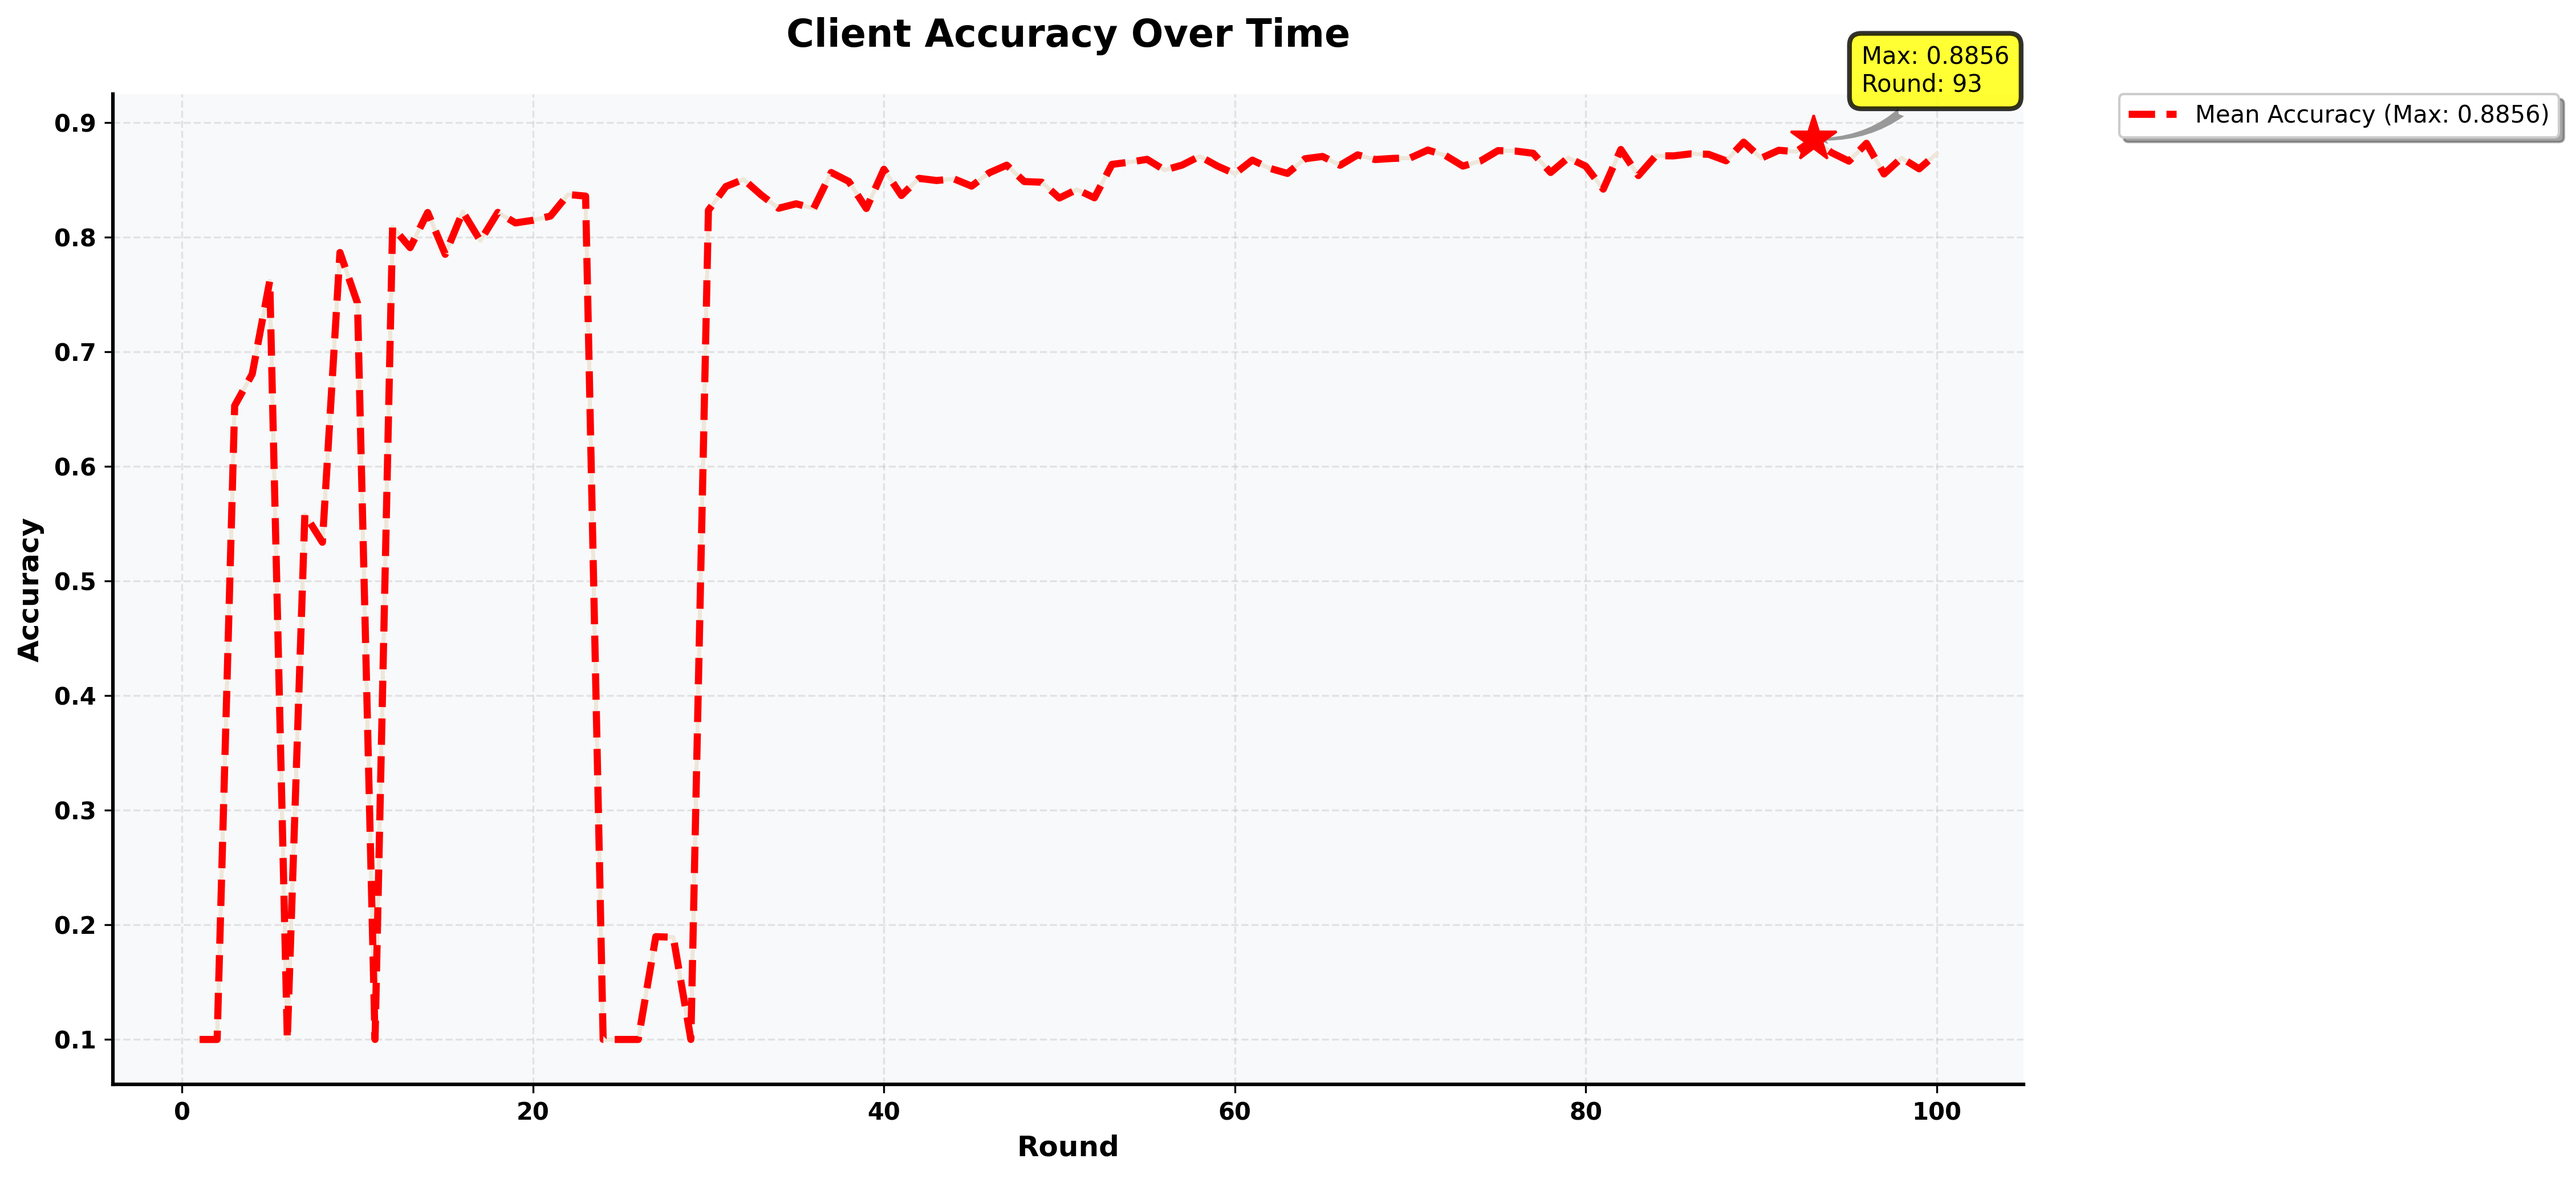
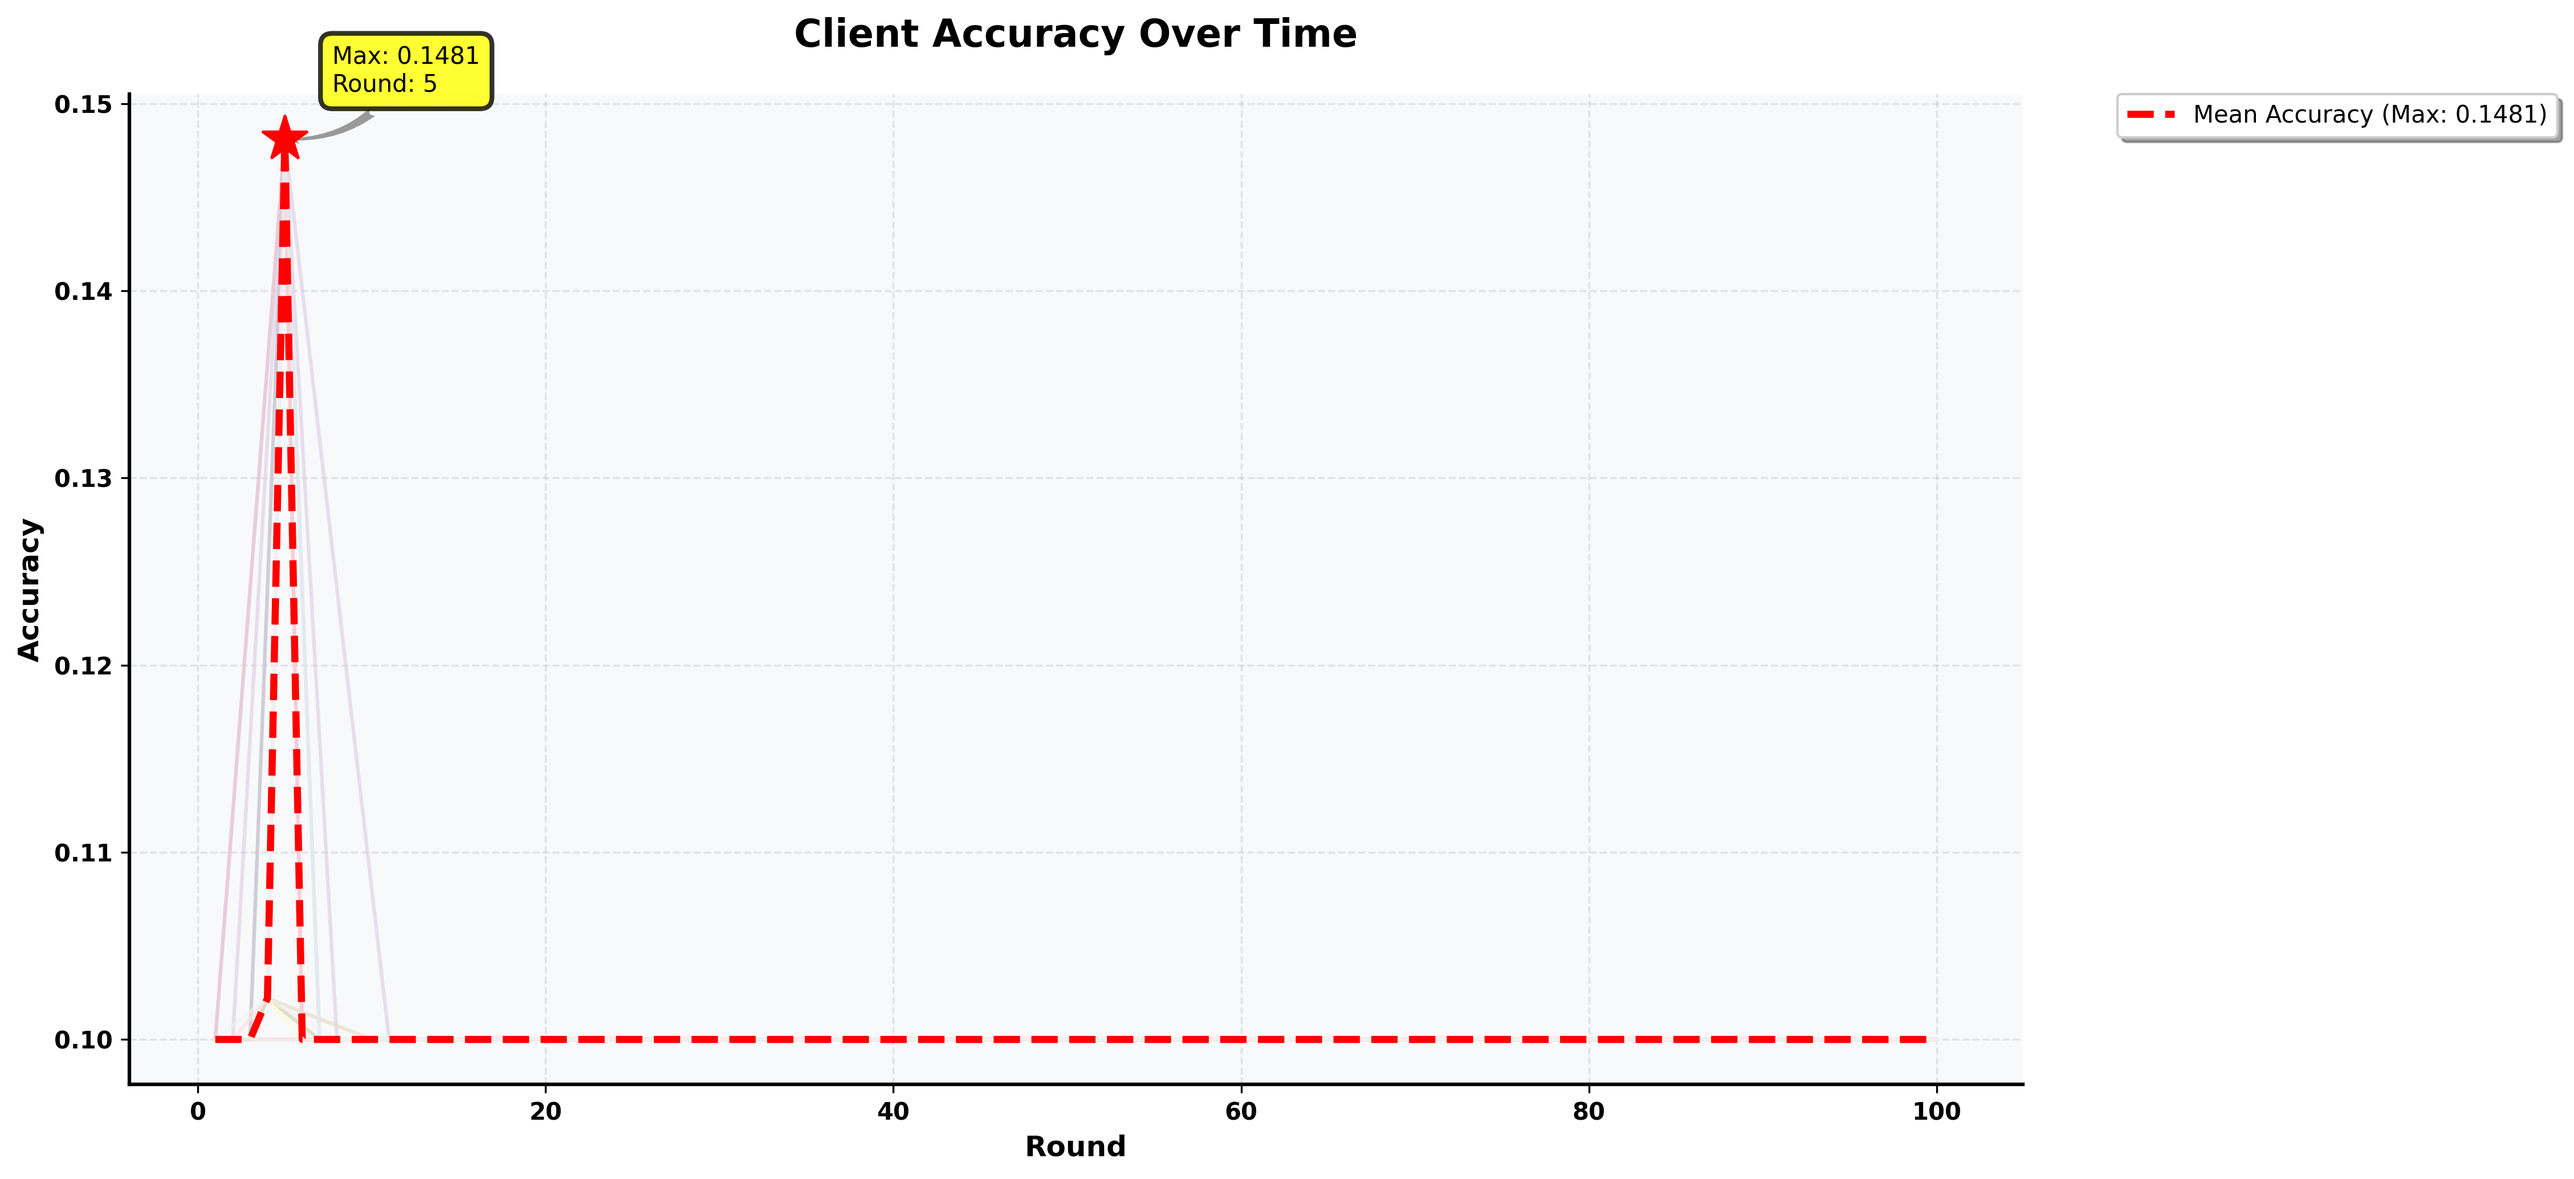
update

diff --git a/src/create_client.py b/src/create_client.py
@@ -108,7 +108,6 @@ class SecureClient(NumPyClient):
         self.model = train(
             net = self.model, 
             trainloader = self.trainloader,
-            valloader = self.valloader,
             epochs = config.get('local_epochs'),
             config=full_config,
             current_round=config.get("server_round"),
@@ -248,7 +247,7 @@ def main():
     parser = argparse.ArgumentParser(description="Secure Federated Learning Client")
     parser.add_argument("--partition-id",   type=int,   default=0)
     parser.add_argument("--client-number",  type=int,   default=1)
-    parser.add_argument("--lr",             type=float, default=0.1)
+    parser.add_argument("--lr",             type=float, default=0.001)
     parser.add_argument("--min_lr",         type=float, default=1e-6)
     parser.add_argument("--scheduler",      type=str,   default="cosine", choices=["cosine", "step"])
     parser.add_argument("--optimizer",      type=str,   default="sgd", choices=["adam", "sgd"])

diff --git a/src/utils/train.py b/src/utils/train.py
@@ -29,7 +29,7 @@ def train(
     # 根据通信轮数计算当前学习率
     if config.get('scheduler') == 'cosine':
         # 余弦退火调度器
-        eta_min = 0  # 最小学习率
+        eta_min = 1e-6  # 最小学习率
         current_lr = eta_min + (config.get("lr") - eta_min) * (1 + math.cos(math.pi * current_round / total_rounds)) / 2
     elif config.get('scheduler') == 'step':
         # 步进调度器
